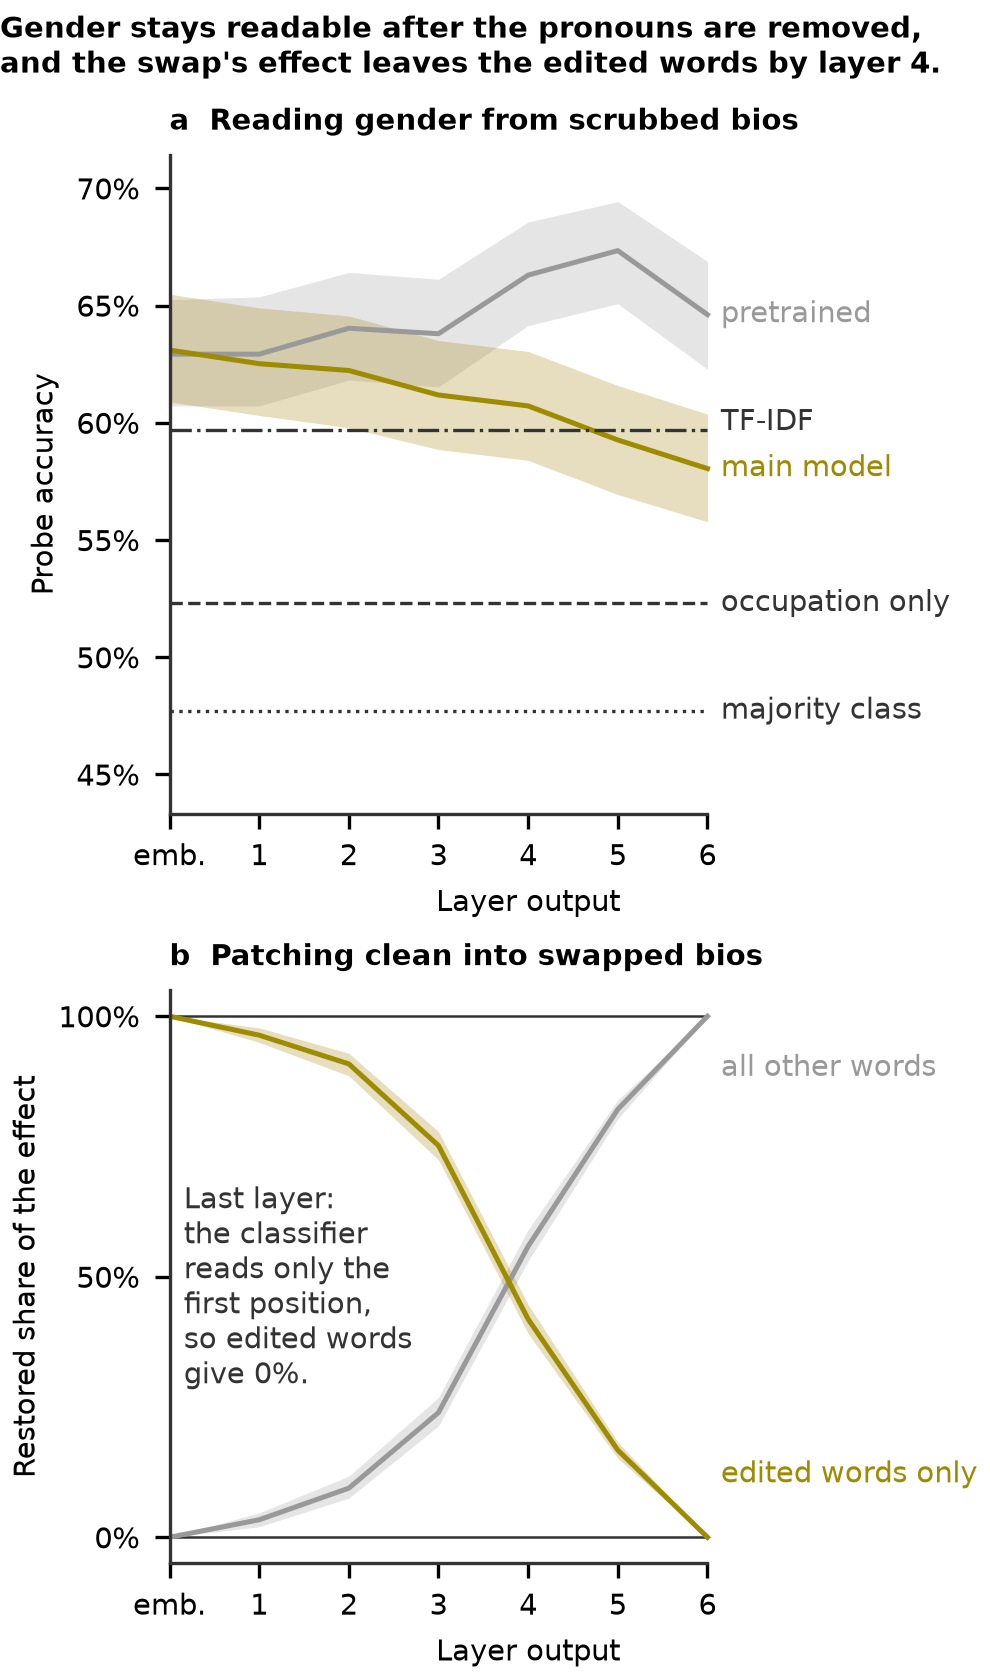
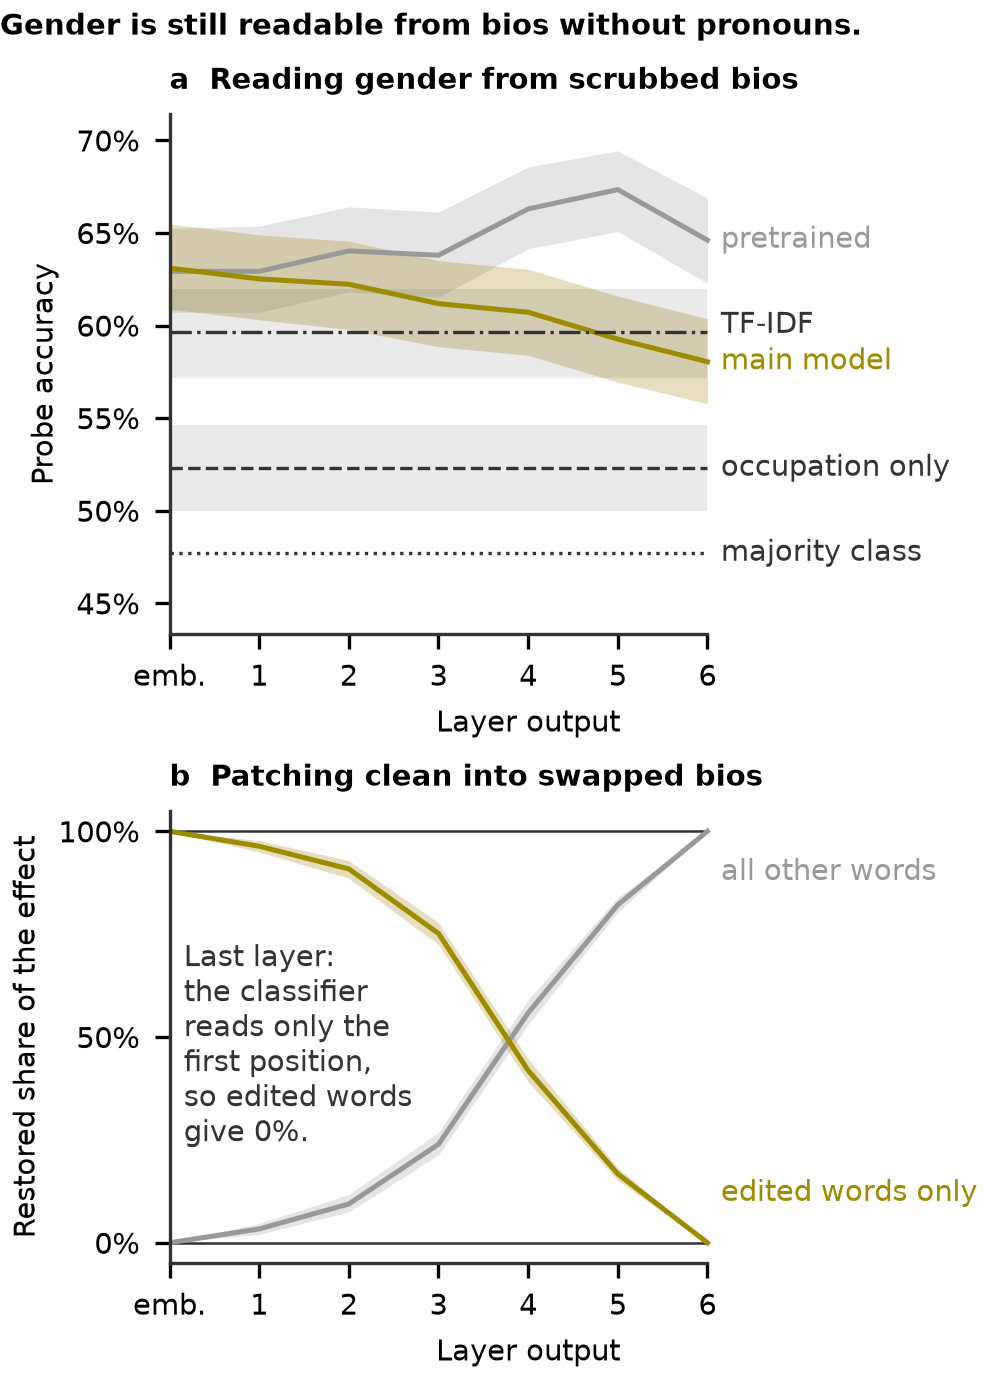
F6: title claims only that gender is readable, bands for the two references, shorter figure

diff --git a/scripts/figure_f6.py b/scripts/figure_f6.py
@@ -20,7 +20,7 @@ from hiring_bias_xai.plotting import HIGHLIGHT, NEUTRAL
 
 FIGURE_NAME = "f6_probing_patching"
 DARK = "#333333"
-HEIGHT_INCHES = 5.6
+HEIGHT_INCHES = 4.6
 MODELS = (("pretrained", NEUTRAL, "pretrained"), ("deberta", HIGHLIGHT, "main model"))
 REFERENCES = (
     ("tfidf", "TF-IDF", "-."),
@@ -28,43 +28,35 @@ REFERENCES = (
     ("majority", "majority class", ":"),
 )
 OCCUPATION_ONLY = "occupation_only"
+BANDED = ("tfidf", OCCUPATION_ONLY)  # the two references the text compares the model with
 LABEL_GAP = 0.07  # least distance between the labels of panel a, as a share of its y range
 LABEL_ROOM = 2.0  # room right of the last layer for the labels, in layers
 LAST_LAYER_NOTE = (
     "Last layer:\nthe classifier\nreads only the\nfirst position,\nso edited words\ngive 0%."
 )
-HALF = 0.5  # the share of the effect that marks where it has left the edited words
 
 
 def _all_bios(probing: pd.DataFrame) -> pd.DataFrame:
     return probing[probing["subset"] == "all"]
 
 
-def title(probing: pd.DataFrame, patching: pd.DataFrame) -> str:
+def title(probing: pd.DataFrame) -> str:
     """The finding: whether a probe reads gender beyond the occupation alone once the pronouns
-    are removed, and the first layer where the effect of the swap has left the edited words.
+    are removed.
 
     A probe counts when its interval starts above the interval of the occupation-only reference;
-    the title says "stays readable" if all do, "in only some layers" if some do. The effect has
-    left the edited words when the interval of the restored share is below one half.
+    the title says "still readable" if all do, "in only some layers" if some do. It claims no
+    more: what patching shows is in the caption and the text.
     """
     rows = _all_bios(probing)
     probes = rows[rows["model"].isin([name for name, _, _ in MODELS])]
     reference = rows[rows["model"] == OCCUPATION_ONLY].iloc[0]
     above = int((probes["ci_low"] > reference["ci_high"]).sum())
     if above == len(probes):
-        readable = "Gender stays readable after the pronouns are removed"
-    elif above:
-        readable = "Gender stays readable in only some layers after the pronouns are removed"
-    else:
-        readable = "Gender is not readable beyond the occupation once the pronouns are removed"
-    differing = patching[patching["position_set"] == "differing"].sort_values("layer")
-    left = differing[differing["mean_ci_high"] < HALF]
-    if left.empty:
-        where = "stays in the edited words in every layer"
-    else:
-        where = f"leaves the edited words by layer {left['layer'].iloc[0]}"
-    return f"{readable}, and the swap's effect {where}."
+        return "Gender is still readable from bios without pronouns."
+    if above:
+        return "Gender is readable from bios without pronouns in only some layers."
+    return "Gender is not readable beyond the occupation from bios without pronouns."
 
 
 def _set_layers(ax, layers: list[int]) -> None:
@@ -88,6 +80,11 @@ def _probe_panel(ax, probing: pd.DataFrame) -> None:
         ends.append((label, colour, model["accuracy"].iloc[-1]))
     for name, label, style in REFERENCES:
         accuracy = rows[rows["model"] == name]["accuracy"].iloc[0]
+        if name in BANDED:
+            row = rows[rows["model"] == name].iloc[0]
+            ax.fill_between(
+                [layers[0], layers[-1]], row["ci_low"], row["ci_high"], color=DARK, alpha=0.1, lw=0
+            )
         ax.plot(
             [layers[0], layers[-1]], [accuracy, accuracy], color=DARK, lw=0.8, ls=style, label=name
         )
@@ -127,12 +124,12 @@ def _patch_panel(ax, patching: pd.DataFrame) -> None:
 
 
 def build(probing: pd.DataFrame, patching: pd.DataFrame):
-    """Panel a above panel b, under a title that states the finding."""
+    """Panel a above panel b, under a title that states the finding of panel a."""
     fig, probe = plotting.new_figure(HEIGHT_INCHES)
     probe.remove()
     top, bottom = fig.subplots(2, 1, height_ratios=[1.15, 1])
     fig.suptitle(
-        title(probing, patching),
+        title(probing),
         fontsize=plotting.MIN_FONT_PT,
         fontweight="bold",
         wrap=True,

diff --git a/tests/test_figure_f6.py b/tests/test_figure_f6.py
@@ -289,7 +289,7 @@ def test_the_bands_are_translucent_and_the_x_axis_line_spans_the_layers(figure):
         assert ax.spines["bottom"].get_bounds() == (0, 2)
 
 
-def test_each_reference_line_has_its_interval_as_a_faint_band(figure):
+def test_the_tfidf_and_occupation_only_lines_have_their_interval_as_a_faint_band(figure):
     top, _ = _panels(figure)
     bands = [
         c
@@ -297,7 +297,7 @@ def test_each_reference_line_has_its_interval_as_a_faint_band(figure):
         if isinstance(c, matplotlib.collections.PolyCollection)
         and matplotlib.colors.to_hex(c.get_facecolor()[0]).upper() == "#333333"
     ]
-    assert len(bands) == len(REFERENCES)
+    assert len(bands) == 2  # the majority class is a plain baseline, so it has no band
     spans = sorted(
         (
             round(b.get_paths()[0].vertices[:, 1].min(), 2),
@@ -305,7 +305,8 @@ def test_each_reference_line_has_its_interval_as_a_faint_band(figure):
         )
         for b in bands
     )
-    assert spans == sorted((round(a - 0.02, 2), round(a + 0.02, 2)) for a in REFERENCES.values())
+    expected = [REFERENCES["tfidf"], REFERENCES["occupation_only"]]
+    assert spans == sorted((round(a - 0.02, 2), round(a + 0.02, 2)) for a in expected)
     assert all(b.get_facecolor()[0][3] < 0.2 for b in bands)
 
 
